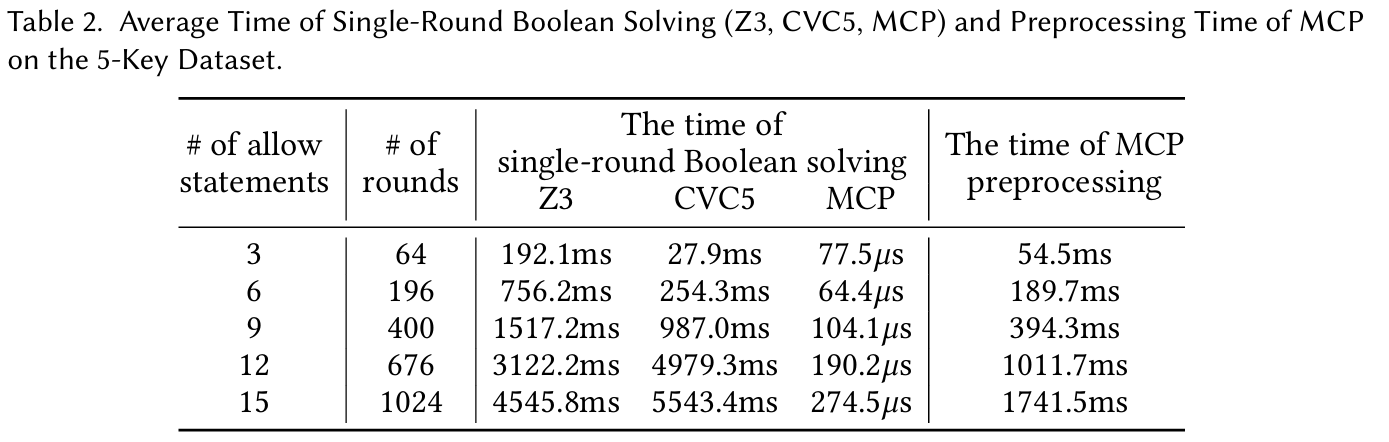
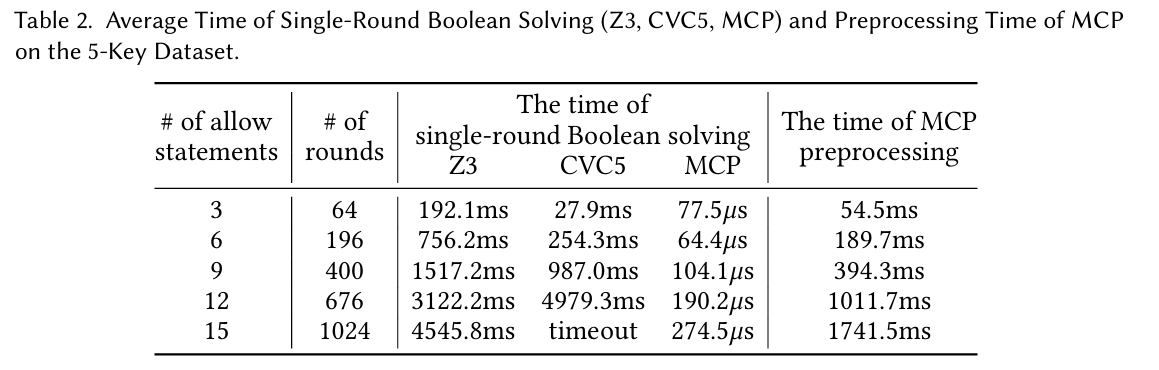
update

diff --git a/HotRcp.md b/HotRcp.md
@@ -442,13 +442,18 @@ For the file `<file_name>.json`, the tool will output a folder named `results/<f
 
 ## Evaluation Reproduction
 
-This section describes (1) how to reproduce the results in `archive_results/`, and (2) how to map `archive_results/` to the corresponding figures, tables, and conclusions in the paper.
+This section describes (1) how to reproduce the results in `results/`, and (2) how to map `results/` to the corresponding figures, tables, and conclusions in the paper.
 
 *We omit the results for the real-world datasets because of commercial restrictions.*
 
 ### Reproducing Archived Results
 
-Running this part generates a `results/` directory. We archive its contents in `archive_results/` while preserving the same directory structure, which allows you to skip the following steps.
+Running this part generates a `results/` directory. We archive its contents in `archive_results/` while preserving the same directory structure. You can run the following commands to skip this section.
+
+```bash
+rm -rf results/
+cp -r archive_results/ results/
+```
 
 #### Reproducing AccessRefinery Archived Results
 
@@ -490,6 +495,7 @@ The following scripts invoke `target/accessanalyzer-1.0.jar`.
 bash mining_miner_cvc5.sh
 
 # The execution takes about 3.5 hours.
+# The time is less than that of AccessRefinery, because of an early timeout.
 bash mining_reducer_cvc5.sh
 
 # The execution takes about 3.5 hours
@@ -530,7 +536,14 @@ sh baselines/accessanalyzer-cli/aws_batch.sh data/TestCLI
 
 ### Verifying Claims in the Paper
 
-After generating the results, we explain how to reproduce the figures, tables, and conclusions reported in the paper.
+After generating `results/`, we explain how to reproduce the figures, tables, and conclusions reported in the paper.
+
+Recall again that if you skip reproduction of results, you can simply copy the archived results to `results/`.
+
+```bash
+rm -rf results/
+cp -r archive_results/ results/
+```
 
 #### 1. Target Conclusion (Line 750 in Section 5):
 
@@ -600,19 +613,37 @@ mvn test -pl ./accessrefinery/mcp -Dtest=MCPTest.java#testComplexSATOperations
 
 <img src="docs/figures/figure10.png" width="450"/>
 
-**Required logs:**
-
-Use the `NumberMCI` values in `accessrefinery_bdd_miner_10rs/Correctness/summary.txt` to plot Figure 10 of the paper.
 
 **Running:**
+
+We provide a script to clear previous plotting results and ensure that plotting scripts use data from `results`.
+
 ```bash
-bash ./tools/figures/extract_correctness.sh
+sh tools/clean_plotting.sh
 ```
+
+**Expected Output:**
+
+```bash
+Clearing paper_figures/data
+Clearing paper_figures/results
+```
+
+**Running:**
+
+Use the `NumberMCI` values in `accessrefinery_bdd_miner_10rs/Correctness/summary.txt` to generate data of Figure 10 in the paper.
+
+```bash
+bash ./tools/figures/extract_correctness_synthetic.sh
+```
+
 **Expected Output:**
 
 - `paper_figures/data/Experiment-Correctness-Synthetic.dat`
 
-**Running:** (Preserve the parentheses when executing the command.)
+**Running:**
+(Preserve the parentheses when executing the command.)
+
 ```shell
 (cd paper_figures && gnuplot gnuplot/RQ1-Experiment-Correctness.plt)
 ```
@@ -662,7 +693,9 @@ bash ./tools/accessanalyzer-reimpl/check_coverage.sh
 
 <img src="docs/figures/figure11.png" width="450"/>
 
-**Required logs**:
+**Running:**
+
+The following command generates data of Figure 11 in the paper from
 
 - `accessrefinery_bdd_reducer_10rs/`
   - `Scalability_05Keys/summary.txt`
@@ -672,9 +705,8 @@ The `NumberMCI` column represents the number of intents before reduction, and th
 
 *Note: The real-world results in the paper cannot be open sourced for commercial reasons.*
 
-**Running:**
 ```bash
-bash tools/figures/extract_effectiveness-synthetic.sh
+bash tools/figures/extract_effectiveness_synthetic.sh
 ```
 
 **Expected Output:**
@@ -686,10 +718,6 @@ bash tools/figures/extract_effectiveness-synthetic.sh
 **Running:**
 
 ```shell
-# remove the history results
-rm -rf paper_figures/results
-mkdir -p paper_figures/results
-
 # plot the figure
 (cd paper_figures && gnuplot gnuplot/RQ2-Experiment-Effectiveness.plt)
 ls paper_figures/results/RQ2*
@@ -705,19 +733,19 @@ paper_figures/results/RQ2-Experiment-Effectiveness.pdf
 
 <img src="docs/figures/figure12.png" width="450"/>
 
-**Required logs**:
+**Running:**
+
+The following command generates data of Figure 12 in the paper from
 
 - `accessrefinery_bdd_miner_10rs/` : `AccessRefinery` in the figure.
   - `Scalability_05Keys/summary.txt` : see `TotalTimeAverage` column
   - `Scalability_06Keys/summary.txt` : see `TotalTimeAverage` column
-- `accessanalyzer_z3_miner_1rs/` : `Access Analyzer(Z3)` in the figure. 
+- `accessanalyzer_z3_miner_1rs/` : `Access Analyzer(Z3)` in the figure.
   - `Scalability_05Keys/summary.csv` : see `Total Time (s)` column
   - `Scalability_06Keys/summary.csv` : see `Total Time (s)` column
-- `accessanalyzer_cvc5_miner_1rs/` : `Access Analyzer(CVC5)` in the figure. 
+- `accessanalyzer_cvc5_miner_1rs/` : `Access Analyzer(CVC5)` in the figure.
   - `Scalability_05Keys/summary.csv` : see `Total Time (s)` column
   - `Scalability_06Keys/summary.csv` : see `Total Time (s)` column
-
-**Running:**
 
 ```bash
 bash tools/figures/extract_scalability_MCI.sh
@@ -733,20 +761,19 @@ bash tools/figures/extract_scalability_MCI.sh
 
 ```shell
 (cd paper_figures && gnuplot gnuplot/RQ3-Experiment-Scalability-Mining.plt)
-ls paper_figures/results/RQ3*Mining*
 ```
 
 **Expected Output:**
 
-```text
-paper_figures/results/RQ3-Experiment-Scalability-Mining.pdf
-```
+- `paper_figures/results/RQ3-Experiment-Scalability-Mining.pdf`
 
 #### 9. Target Figure (Line 850 in Section 6.3): Figure 13
 
 <img src="docs/figures/figure13.png" width="450"/>
 
-**Required logs**:
+**Running:**
+
+The following command generates data of Figure 13 in the paper from
 
 - `accessrefinery_bdd_reducer_10rs/` : `AccessRefinery` in the figure.
   - `Scalability_05Keys/summary.txt` : see `TotalTimeAverage` column
@@ -757,8 +784,6 @@ paper_figures/results/RQ3-Experiment-Scalability-Mining.pdf
 - `accessanalyzer_cvc5_reducer_1rs/` : `Access Analyzer(CVC5)` in the figure. 
   - `Scalability_05Keys/summary.csv` : see `Total Time (s)` column
   - `Scalability_06Keys/summary.csv` : see `Total Time (s)` column
-
-**Running:**
 
 ```bash
 bash tools/figures/extract_scalability_RRI.sh
@@ -774,14 +799,11 @@ bash tools/figures/extract_scalability_RRI.sh
 
 ```shell
 (cd paper_figures && gnuplot gnuplot/RQ3-Experiment-Scalability-Reducing.plt)
-ls paper_figures/results/RQ3*Reducing*
 ```
 
 **Expected Output:**
 
-```text
-paper_figures/results/RQ3-Experiment-Scalability-Reducing.pdf
-```
+- `paper_figures/results/RQ3-Experiment-Scalability-Reducing.pdf`
 
 #### 10. Target Figure (Line 875 in Section 6.4): Figure 14
 
@@ -793,7 +815,9 @@ These logs are omitted for commercial reasons.
 
 "*For intent mining, using JavaBDD is 1-6x faster than using MiniSAT (for clarity, the figure is omitted).*"
 
-**Required logs**:
+**Running:**
+
+The following command generates data of Figure 14 in the paper from
 
 - `accessrefinery_bdd_miner_10rs/` : time for `JavaBDD` in the paper
   - `Scalability_05Keys/summary.txt` : see `TotalTimeAverage` column
@@ -804,8 +828,6 @@ These logs are omitted for commercial reasons.
 
 // TODO @916267142
 // Is it duplicated to run the command again here?
-
-**Running:**
 
 ```bash
 bash tools/figures/extract_scalability_MCI.sh
@@ -823,20 +845,19 @@ The following command generates the figure omitted in the paper.
 
 ```shell
 (cd paper_figures && gnuplot gnuplot/RQ5-Experiment-MicroBenchmark-Mining.plt)
-ls paper_figures/results/RQ5*
 ```
 
 **Expected Output:**
 
-```text
-paper_figures/results/RQ5-Experiment-MicroBenchmark-Mining.pdf`
-```
+- `paper_figures/results/RQ5-Experiment-MicroBenchmark-Mining.pdf`
 
 #### 12. Target Figure (Line 898 in Section 6.5): Figure 15
 
 <img src="docs/figures/figure15.png" width="450"/>
 
-**Required logs (Intent Reduction)**:
+**Running:**
+
+The following command generates data of Figure 15 in the paper from
 
 - `accessrefinery_bdd_reducer_10rs/` time for `JavaBDD` in the paper
   - `Scalability_05Keys/summary.txt` see `TotalTimeAverage` column
@@ -849,8 +870,6 @@ paper_figures/results/RQ5-Experiment-MicroBenchmark-Mining.pdf`
 
 // TODO @916267142
 // Is it duplicated to run the command again here?
-
-**Running:**
 
 ```bash
 bash tools/figures/extract_scalability_RRI.sh
@@ -868,14 +887,11 @@ The following command generates Figure 15 in the paper.
 
 ```shell
 (cd paper_figures && gnuplot gnuplot/RQ5-Experiment-MicroBenchmark-Reducing.plt)
-ls paper_figures/results/RQ5*Reducing*
 ```
 
 **Expected Output:**
 
-```text
-paper_figures/results/RQ5-Experiment-MicroBenchmark-Reducing.pdf`
-```
+- `paper_figures/results/RQ5-Experiment-MicroBenchmark-Reducing.pdf`
 
 #### 13. Target Table (Line 913 in Section 6.6): Table 2
 
